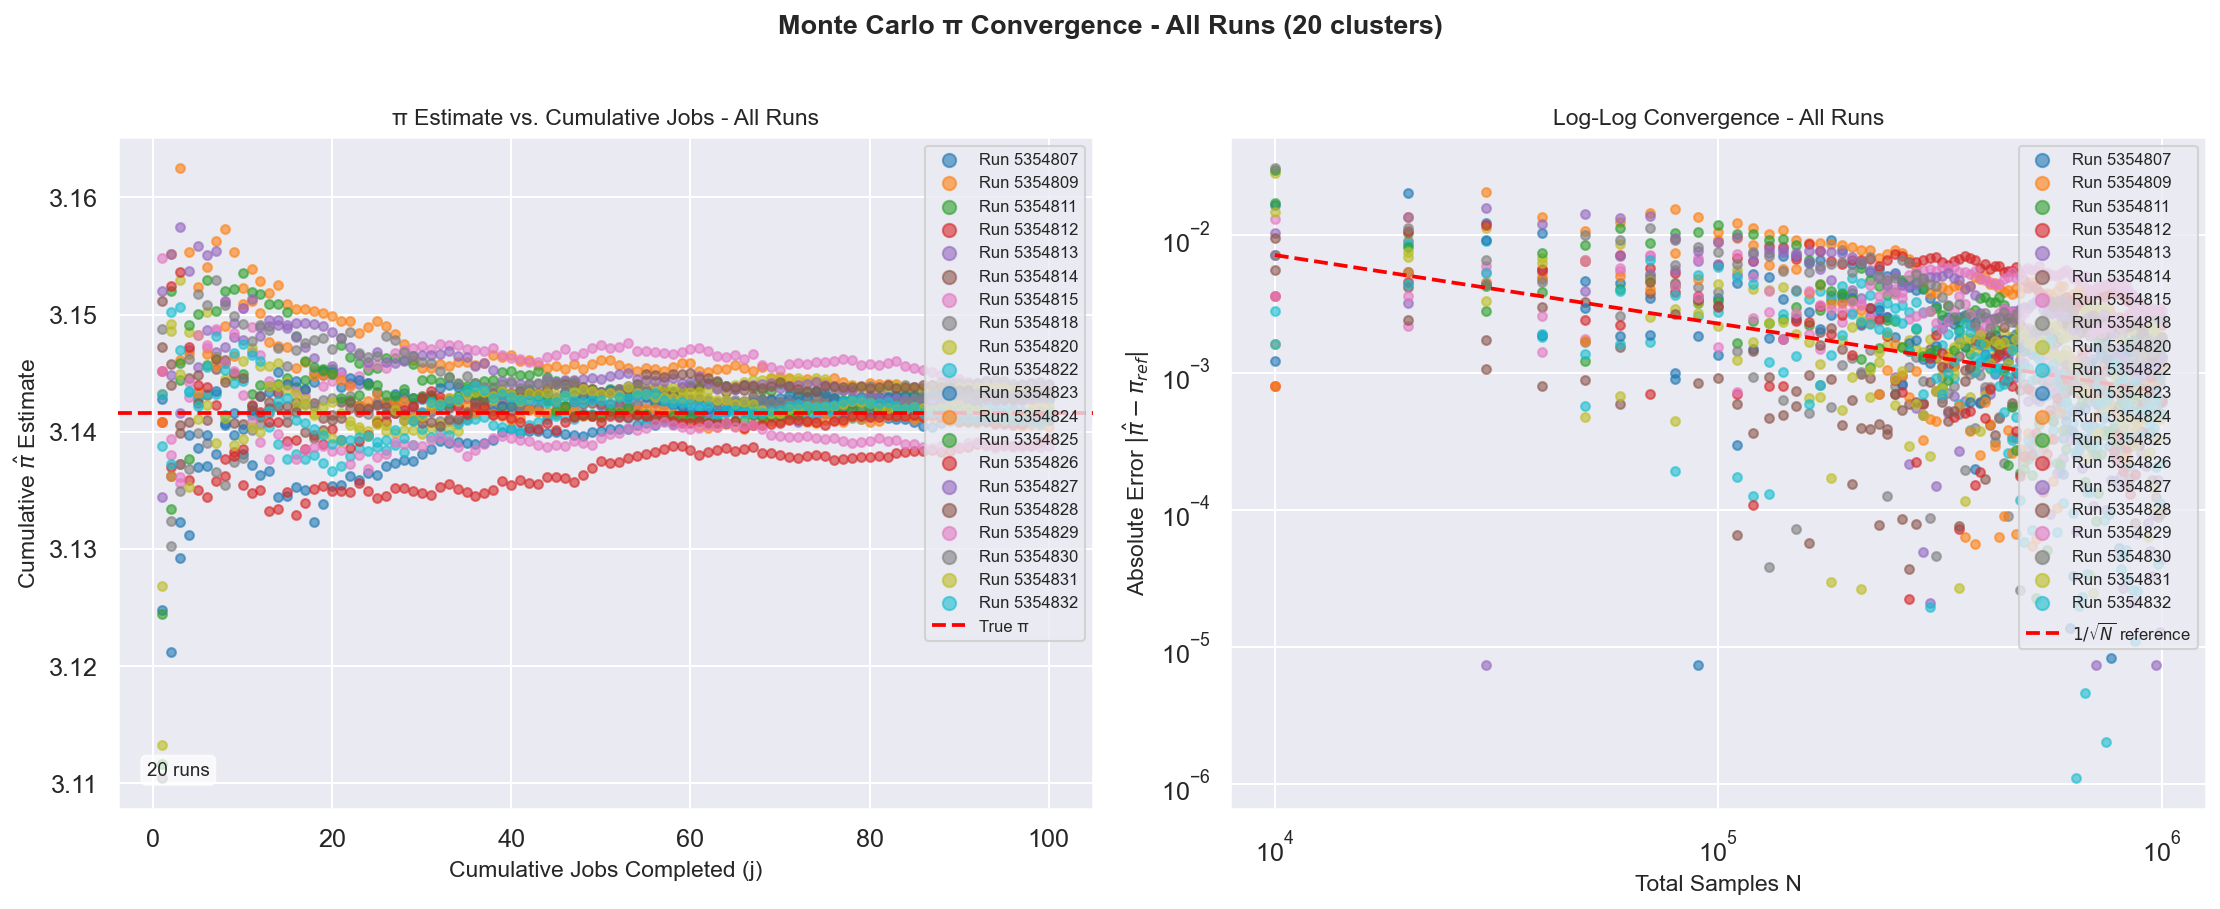
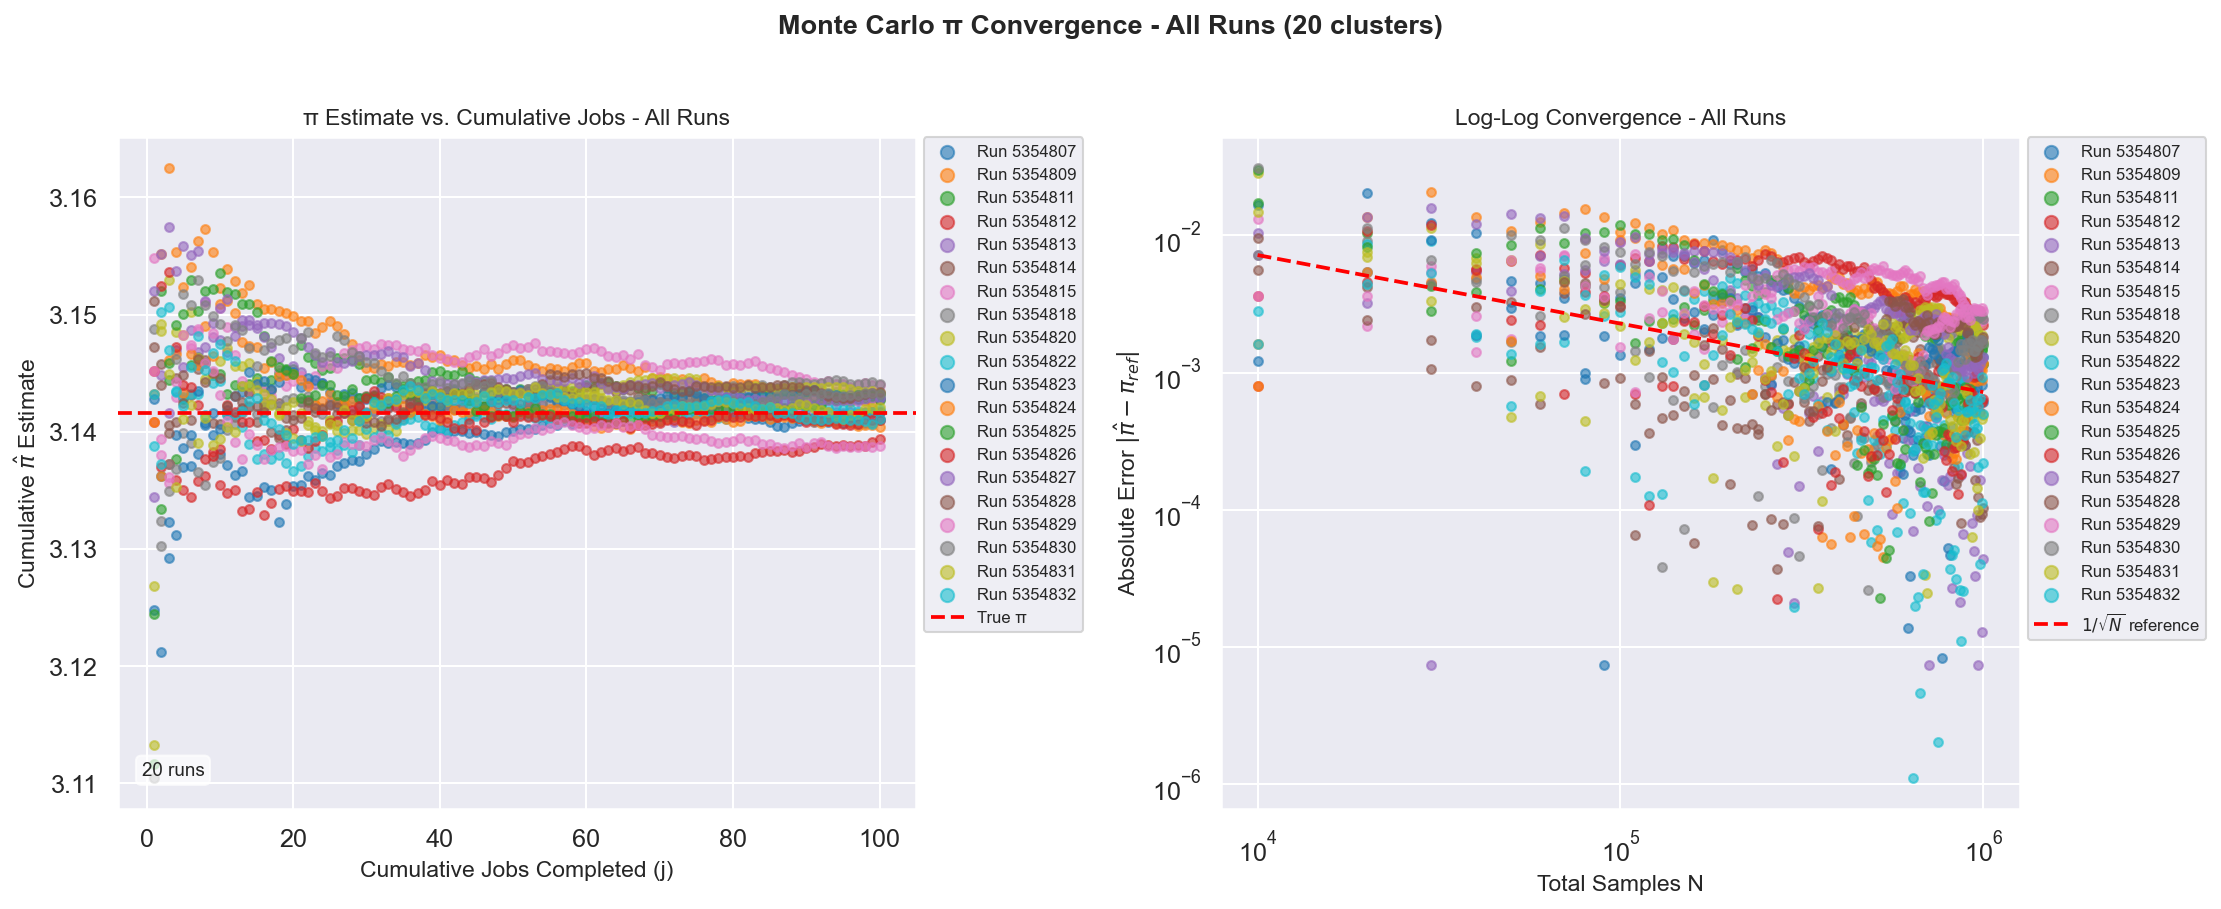
graph.py legend position change

diff --git a/snikithasiddavatam/monte_carlo_pi/graph.py b/snikithasiddavatam/monte_carlo_pi/graph.py
@@ -52,7 +52,8 @@ ax1.axhline(y=PI_REF, color="red", linewidth=1.8,
 ax1.set_xlabel("Cumulative Jobs Completed (j)", fontsize=11)
 ax1.set_ylabel(r"Cumulative $\hat{\pi}$ Estimate", fontsize=11)
 ax1.set_title("π Estimate vs. Cumulative Jobs - All Runs", fontsize=11)
-ax1.legend(fontsize=8, markerscale=1.5, loc="upper right")
+ax1.legend(fontsize=8, markerscale=1.5, loc="upper left",
+           bbox_to_anchor=(1.01, 1), borderaxespad=0)
 ax1.annotate(f"{len(all_runs)} runs",
              xy=(0.03, 0.05), xycoords="axes fraction",
              fontsize=9, bbox=dict(boxstyle="round,pad=0.3", fc="white", alpha=0.7))
@@ -82,7 +83,8 @@ ax2.set_yscale("log")
 ax2.set_xlabel("Total Samples N", fontsize=11)
 ax2.set_ylabel(r"Absolute Error $|\hat{\pi} - \pi_{ref}|$", fontsize=11)
 ax2.set_title("Log-Log Convergence - All Runs", fontsize=11)
-ax2.legend(fontsize=8, markerscale=1.5, loc="upper right")
+ax2.legend(fontsize=8, markerscale=1.5, loc="upper left",
+           bbox_to_anchor=(1.01, 1), borderaxespad=0)
 
 plt.tight_layout()
 output_path = "all_runs_scatter.png"